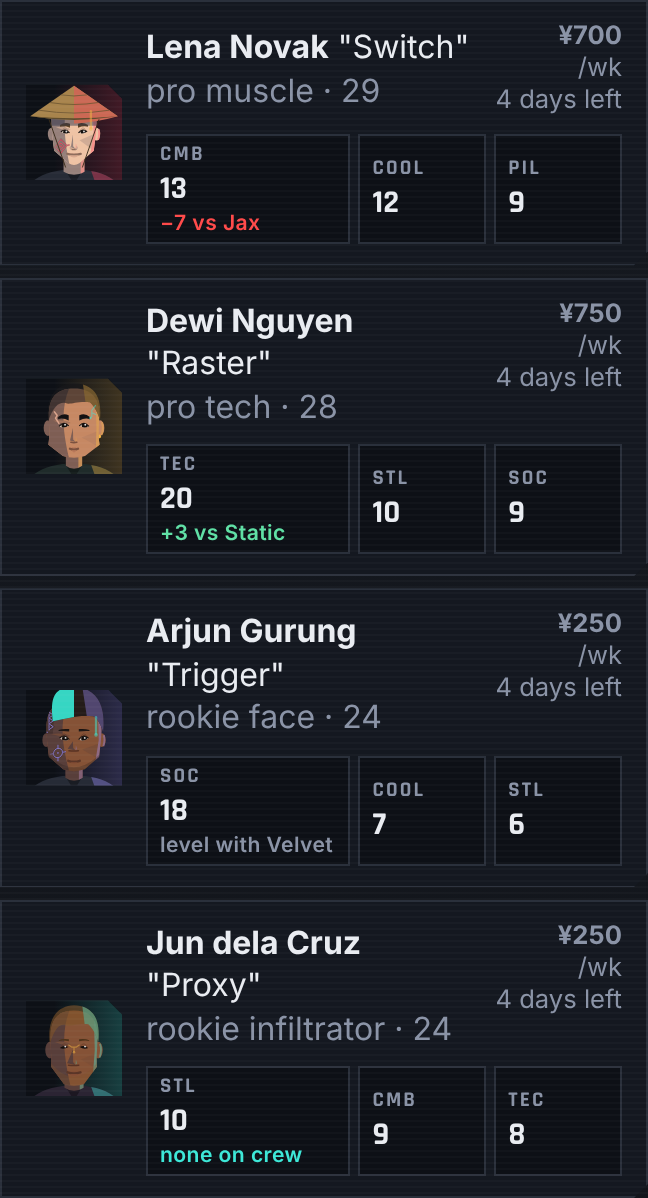
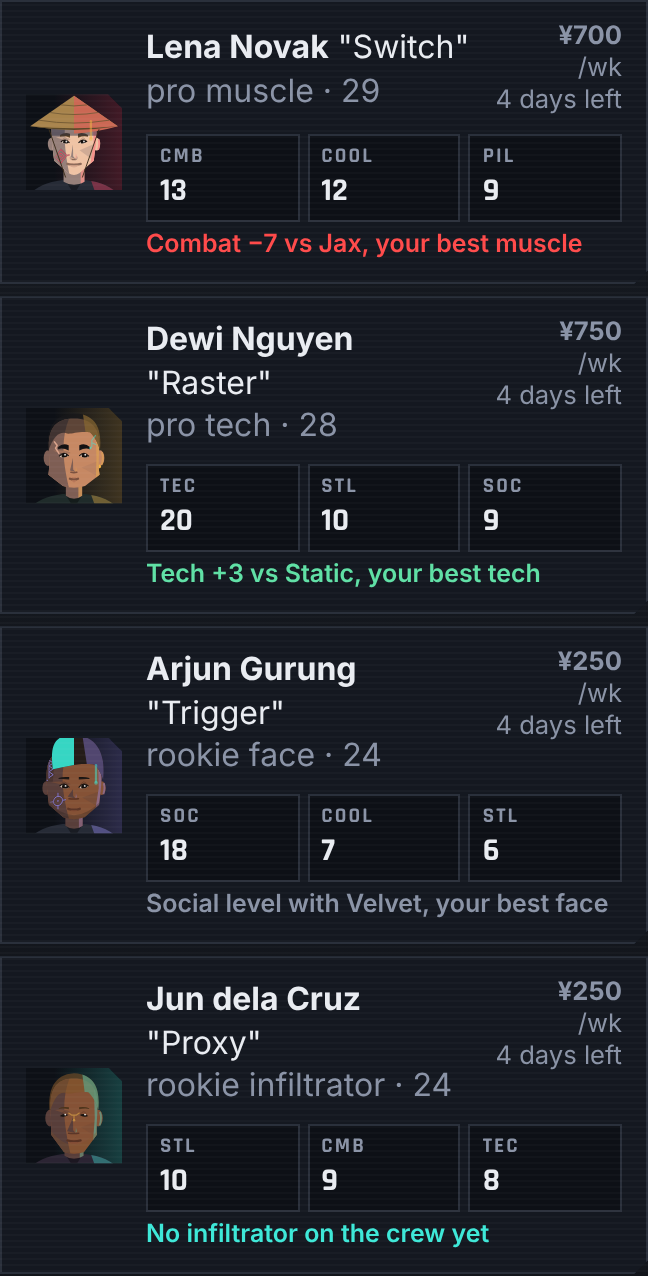
Leads: three equal stat boxes, the comparison on a line under them
The main-stat box was wider to hold the comparison, which made the strip
look uneven. All three boxes are now the same size, and the comparison is a
line under the strip: "Combat -7 vs Jax, your best muscle", "No
infiltrator on the crew yet".

diff --git a/src/ui/crew.js b/src/ui/crew.js
@@ -88,19 +88,20 @@ function statStrip(op) {
 
 /**
  * A lead's stat strip on the Leads tab (2026-11-24, owner): the same three boxes as a crew card (main stat,
- * then the two highest), with no change figures, and the main stat set against our best in that role:
- * "+2 vs Jax", "−7 vs Jax", "level with Jax", or "none on crew" when we have nobody in the role.
- * The boxes are part of the lead's row (it opens their page), not buttons of their own.
+ * then the two highest), with no change figures, all the same size (owner), and a line under them setting
+ * the main stat against our best in that role: "Combat −7 vs Jax, your best muscle", "level with", or
+ * "No infiltrator on the crew yet". The boxes are part of the lead's row (it opens their page), not buttons.
  */
 function leadStrip(r) {
   const main = primaryStat(r);
   const rest = ROLL_STATS.filter((k) => k !== main).sort((a, b) => ratedStat(r, b) - ratedStat(r, a)).slice(0, 2);
   const best = state.crew.filter((o) => o.role === r.role && !o.freelance).sort((a, b) => ratedStat(b, main) - ratedStat(a, main))[0];
   const d = best ? ratedStat(r, main) - ratedStat(best, main) : 0;
-  const vs = !best ? ['none on crew', 'is-new', `no ${r.role} on the crew`]
-    : d === 0 ? [`level with ${best.handle}`, '', `level with ${best.handle}`]
-      : [`${signed(d)} vs ${best.handle}`, d > 0 ? 'is-up' : 'is-down', `${signed(d)} against ${best.handle}`];
-  return `<span class="statstrip">${[main, ...rest].map((k, i) => `<span class="statstrip__cell" role="img" aria-label="${esc(statName(k))} ${ratedStat(r, k)}${i === 0 ? `, ${esc(vs[2])}` : ''}"><span class="statstrip__k">${STAT_SHORT[k]}</span><span class="statstrip__v">${ratedStat(r, k)}</span>${i === 0 ? `<span class="statstrip__vs ${vs[1]}">${esc(vs[0])}</span>` : ''}</span>`).join('')}</span>`;
+  const who = best ? `, your best ${r.role}` : '';
+  const [line, tone] = !best ? [`No ${r.role} on the crew yet`, 'is-new']
+    : d === 0 ? [`${statName(main)} level with ${best.handle}${who}`, '']
+      : [`${statName(main)} ${signed(d)} vs ${best.handle}${who}`, d > 0 ? 'is-up' : 'is-down'];
+  return `<span class="statstrip">${[main, ...rest].map((k) => `<span class="statstrip__cell" role="img" aria-label="${esc(statName(k))} ${ratedStat(r, k)}"><span class="statstrip__k">${STAT_SHORT[k]}</span><span class="statstrip__v">${ratedStat(r, k)}</span></span>`).join('')}</span><span class="statstrip__vs ${tone}">${esc(line)}</span>`;
 }
 
 /** The level-up tab on a crew-list portrait (2026-11-23, owner; replaced the "Level up" pill). The Crew tab's badge counts them in words. */

diff --git a/src/ui/styles.css b/src/ui/styles.css
@@ -613,8 +613,7 @@ button.runner:hover, button.runner:focus-visible { border-color: var(--accent-2)
 .leadrow > .row__meta { grid-area: meta; align-self: start; text-align: right; }
 .leadrow__strip { grid-area: strip; }
 .leadrow .statstrip__cell { cursor: inherit; }
-.leadrow .statstrip { grid-template-columns: minmax(0, 1.6fr) minmax(0, 1fr) minmax(0, 1fr); max-width: 320px; } /* room for the vs line on one line */
-.statstrip__vs { margin-top: 1px; font-size: 0.66rem; font-weight: 600; letter-spacing: 0.02em; line-height: 1.2; color: var(--muted); }
+.statstrip__vs { display: block; margin-top: 4px; font-size: 0.78rem; font-weight: 600; line-height: 1.3; color: var(--muted); }
 .statstrip__vs.is-up { color: #5fe0a5; }
 .statstrip__vs.is-down { color: var(--danger); }
 .statstrip__vs.is-new { color: var(--accent-2); }

diff --git a/docs/UI-SKIN.md b/docs/UI-SKIN.md
@@ -22,7 +22,7 @@ The current look of every screen. Moved word for word from `ART.md` on 2026-11-1
 - **Colour themes** (2026-11-19, Save › Look › Colours): cyan is the standard and everything in this file describes it. **Red channel** (`theme-red` on `<html>`, the last block of `styles.css`) changes colours only: `--bg` `#0d0809`, `--panel` / `--panel-2` `#140c0e` / `#1a1013`, `--line` `#4a1e25`, `--muted` `#7fb3ad`, `--accent-2` `#5ef2e4`; a red radial tint and red 32px grid on the page; headings `#ff5a6e`; section rules, panel tabs, the cut hairline, the line under the top bar and the sub-tabs in `--accent`; idle tabs `#c0606d`; job names `#ff8a98`, pay in cyan. A new screen that hard-codes a cyan or a panel colour should check it under both.
 - **City map** (`src/ui/citymap.js`, fed by `cityMap()` in `src/ui/city.js`, on the Ops tab since 2026-11-06; rebuilt 2026-11-05 as the command centre's neon map, after the owner's mock-up `drafts/prototypes/command-centre.html`; DESIGN.md): Lantern Bay as a compact tactical map, 330×290, that fits the width; it moves only when you pick a district (zoom, 2026-11-07, below). **The frame** (2026-11-07): a 1px `#343b48` hairline (a step lighter than the panel's border), cyan corner brackets (12px, 2px, 70%), a darker ground (`rgba(6,8,11,0.55)`), and the legend inside it at the foot. The island's districts are faceted, straight-edged shapes washed in their gang's light (Brass Anchor sodium `#f2d541`, Red Lantern `#ff3d5f`, Silver Fan violet `#b48cff`, Veridian-Apex cyan `#3de8d8`, Racing Association orange `#ff9a3d`): 9% over `--panel-2`, 15% with a hall of ours, 24% when picked. They meet at 2.5px seams in the page colour, with a faint 9-unit block grid inside; locked districts are hatched in the line colour. The Amber Reach sits in the harbour, the Docks and the Silt on the mainland; HARBOUR in small spaced grey caps. A dashed violet line is the maglev through the Amber Reach; a dotted sodium line is the ferry. No coast outline. **Labels** (HTML over the map since 2026-11-07, so they stay the same size on any screen: 12px names on a phone, 13px from 900px; before, SVG text grew with the map to about 33px on a computer): a dark panel (86% page colour, 1px line border, cyan with a soft glow when picked) with the gang's colour as a 14×2 tab, the name in display caps, and a line under it only for what's there ("⌂ 7 HERE · 2 JOBS · HEAT 4"; heat from 1, amber from 3, red from 6). A district with a hall of ours, and the picked one, carry its **landmark** (`ui/landmarks.js`) as a 24×22 icon. Locked labels are small, one muted line. Each is a 44px+ tap target with its margin. **Zoom** (2026-11-07): picking a district eases the map onto it (0.45s, at once for reduced motion; at least 175 units wide, about 1.9×, never past the city's edge), the others dim to 60% and their labels to 40%, and the district's landmark stands on the map (34 units, fading in). "× Whole city" (a cyan outlined button with a cut corner, in the legend's place), Esc or a tap on the harbour zooms back out. Taps only: no pinch, no drag. **For glancing:** heat is a radial glow round the label (sodium, amber, red; 20 + 3 × heat units); crews out are face tokens (the portraits in a circle, 14 units, a cyan ring with a soft glow; up to three overlapping, then +n) on a dotted cyan route from their hall, just off the label; a call rings them sodium with a ring that breathes outwards; side work is a smaller grey-ringed token; a raid warned is a red ring round the hall's label with a second breathing outwards and a red RAID FRI tag over the label; street talk is a small blinking sodium square beside the label. A legend under the map (Crew · Calling · Raid warned · Hall). Only the call and raid rings move (and the picked district's gentle light); everything is still for reduced motion. New districts are one entry in `DISTRICTS` (shape, label spot and landmark spot). **Beside the map, Tonight** (2026-11-07): one row per district with work or street talk (a dark row with a cut corner, the gang's colour as a tab, its landmark at 26px, the district in muted display caps over what's there, and where the tap goes in cyan: PLAN ›, JOBS ›, TALK ›); a muted line for the rest. **Crew-out mini maps** (`ui/minimap.js`, 2026-11-06): a 120 × 80 still of the job's site in a 1px line frame, labels hidden; the route walked as a 3-unit cyan line, the rest a dashed grey one; the crew as cyan dots (7 units, a dark edge) clustered where they stand; grey rings on the perch and at the van; a waiting call turns the dots sodium with a sodium ring that breathes outwards (still for reduced motion).
 - **District pictures** (`src/ui/districtArt.js`; on Lore › Districts since 2026-11-06, each district's card led by its picture): a street scene per district, 720×300, drawn like the portraits (flat planes, hard light, the gang's light from the right, no outlines). One per open district, each with one of your crew in it (hood up, rifle across the back) and its landmarks: the **Docks** (Red Lantern red: cranes with cyan and violet neon, container AHX 409, red lanterns, a flying car, Hong Kong neon across the harbour); **Old Town** (Brass Anchor sodium: tenements with caged balconies, laundry and air-con boxes, Auntie Fung's tea shop 芬記涼茶 with a cup of bitter tea on the step, the shrine of To Dei Gung 土地, the mahjong parlour, Block 9's rusted stairwell, joss paper burning in a bin); the **Night Market** (Silver Fan violet: holo-ads, signs crowding the lane, the Neon Dragon dai pai dong's wok fire, Madam Rao's saris on a rail, the third-floor mahjong parlour, stalls under string lights, a crowd under lit umbrellas); **Glass Heights** (Veridian-Apex cyan: glass towers in a fine grid, the Central Tower's crown and logo, the Glass-Bridge Promenade, air vents, planters, security drones scanning the plaza, sky traffic); the **Basin** (Racing Association orange: race night under floodlight towers, horses on the turn in silks, the Old Stand of 1891, the odds board in neon under 燈籠馬場 in pink, camera drones pacing the horses with a red recording light, paper slips in the air). Mahjong parlours share one window drawing. Chinese lettering uses the system's CJK font, as the city's name does.
-- **Icons** (`src/ui/icons.js`): line icons drawn like Joss's face, a 24-unit grid with 1.8 strokes, round caps and joins, no fills, in the text's colour (`currentColor`). One idea each: combat a blade, stealth an eye struck through, tech a chip, social a speech bubble, driving a steering wheel, medical a cross, cool a steady pulse, a person as head and shoulders (crew sizes on side-work cards show one figure and the number, "[figure] 4"). **Gear** (2026-10-28) has one icon per item type, the same way: a rifle with its scope, a handgun, a plated vest, a quadcopter drone, a deck, a bag with a cross, a key for lockpicks, a head with a chip for implants; always beside the item's name. They sit beside their word (rule 1) wherever a stat is a label you scan (dossiers, the picker, the profile's stats), not inside sentences. **The crew list's stat strip** (2026-11-23) is the other exception: three boxes with short capital labels (MED, COOL, SOC) and no icon, so all three fit one row at phone width; each box carries the full name for screen readers. Each box is a button (2026-11-24): a tap outlines it in cyan and opens a line under the strip (a cyan left rule on the dark inset) with the stat in full and this season's change; the card itself opens from a button over its name and role rows, and from a hit layer behind the rest. In a season's first week, before a runner changes, the strip shows last season's changes in grey with a small capital "Last season" note. Leads (2026-11-24) show the same strip with a wider first box: under the main stat, a small line against our best in the role, green ahead, red behind, grey level, cyan "none on crew". A waiting level-up there is a small green chevron tab on the portrait's corner (the "ready" green, cut corner). Fame (Renowned) is not on the card (2026-11-24): it is on the runner's page, and the SHOW menu can list them. On wide screens the status chip sits above the fatigue bars, right of the strip. **One exception, the job board's cards** (2026-10-28): the key stats show as icons alone, because the same words are one tap away on the planning screen; each icon still carries its name for screen readers and as a hover title on desktop, and the reputation (i) above the board holds the key.
+- **Icons** (`src/ui/icons.js`): line icons drawn like Joss's face, a 24-unit grid with 1.8 strokes, round caps and joins, no fills, in the text's colour (`currentColor`). One idea each: combat a blade, stealth an eye struck through, tech a chip, social a speech bubble, driving a steering wheel, medical a cross, cool a steady pulse, a person as head and shoulders (crew sizes on side-work cards show one figure and the number, "[figure] 4"). **Gear** (2026-10-28) has one icon per item type, the same way: a rifle with its scope, a handgun, a plated vest, a quadcopter drone, a deck, a bag with a cross, a key for lockpicks, a head with a chip for implants; always beside the item's name. They sit beside their word (rule 1) wherever a stat is a label you scan (dossiers, the picker, the profile's stats), not inside sentences. **The crew list's stat strip** (2026-11-23) is the other exception: three boxes with short capital labels (MED, COOL, SOC) and no icon, so all three fit one row at phone width; each box carries the full name for screen readers. Each box is a button (2026-11-24): a tap outlines it in cyan and opens a line under the strip (a cyan left rule on the dark inset) with the stat in full and this season's change; the card itself opens from a button over its name and role rows, and from a hit layer behind the rest. In a season's first week, before a runner changes, the strip shows last season's changes in grey with a small capital "Last season" note. Leads (2026-11-24) show the same strip, three equal boxes, with a line under it setting the main stat against our best in the role: green ahead, red behind, grey level, cyan when nobody on the crew has the role. A waiting level-up there is a small green chevron tab on the portrait's corner (the "ready" green, cut corner). Fame (Renowned) is not on the card (2026-11-24): it is on the runner's page, and the SHOW menu can list them. On wide screens the status chip sits above the fatigue bars, right of the strip. **One exception, the job board's cards** (2026-10-28): the key stats show as icons alone, because the same words are one tap away on the planning screen; each icon still carries its name for screen readers and as a hover title on desktop, and the reputation (i) above the board holds the key.
 - **Risk corner** (job board cards, 2026-10-28, owner's call after Cyberpunk 2077's inventory slots): a thin bracket inside the card's top-right corner, 4px in, 14px each way, 1.5px lines at 70% opacity, coloured by Joss's read: low `#5fe0a5`, mid `--warn`, high `#ff9a5a`, extreme `--danger`. All the same size: the colour alone tells the levels apart on the card (the owner's call); the word is on the planning screen, for screen readers and as a hover title. While Joss's read is still on its way (2026-11-14, the board reads in a worker) the corner is the same bracket in `--muted` at 35%, breathing to 12% (no animation with reduced motion), and the runner count is a dash in its own place, so the card never changes size when the read lands. Flags on a card are outlined boxes in display caps, only when something is unusual.
 - **Site plans** (`src/data/sites.js`, drawn by `src/ui/siteplan.js` with `src/ui/siteart.js`): the watch screen's map of a job, one per district, from above at night on the same dark ground as the city map. **Since 2026-11-12 drawn like the portraits (direction B):** one city light from the right (`site.light`, sodium by default); everything that stands up casts a hard navy `#1b2340` shadow to the left and a little down, longer the taller it is, and catches the light on its right side; no blur, no outlines. Stalls are awnings (shadowed left, lit right, a lamp under each), the crowd are people from above, the footbridge has rails and lamps; a site may add paving slabs and hard-edged planes of neon across its ground (`paving`, `glow`; the Night Market has both). Each district has its own drawings and ground (`look`, `texture`, `light`): Docks containers with ribs and lit doors on concrete, the harbour's swell, a planked jetty, red light off the water; Old Town roofs with air-con units, a drum water tank, washing on the lines, a cobbled courtyard in sodium light; Glass Heights shrubs in planters on a tiled plaza in the tower's cyan, a helipad roof; Basin pitched stable roofs, Lantern Course at its real size (only the near bend of the oval, off the top-left edges: dirt between two white rails, the infield mown in bands), gravel yards, and the Old Stand's roof (overwatch: concrete ribs running back from the lip, plant on top). **Props** (`src/ui/siteprops.js`, placed by hand in each site's `props`): the city's tech as scenery, never cover and never on the route: auto-taxis with a roof light bar and headlight beams, AR adverts (a see-through panel with scan lines and glyph bars over a small emitter; no words), rooftop neon signs with a hard halo, satellite dishes, vending machines throwing their colour on the ground, hovering drones (a sphere: dark side, lit crescent, a glowing ring round its middle, one sensor eye, its shadow apart from it), junction boxes with three status lights, steam vents with a flat pale plume, and cables strung overhead between buildings. The route is solid cyan with a dark edge; labels are display caps with a dark halo. Flat shapes, no outlines on cover; buildings `#171b24` with a grey edge; the target room a dashed signal-red outline; the crew's route a cyan line with ring nodes; overwatch a sodium perch; the rifle's sight a faint sodium wedge, the drone's cyan. Each district reads at a glance: rust and teal containers and the harbour (Docks), lit windows, laundry lines and an alley of steps (Old Town), neon stalls and a grey crowd (Night Market), a cyan-edged glass tower over a planted plaza (Glass Heights), the cream racecourse oval and timber stables (Basin). Labels are small grey caps; the target's is white. Cover for fights is drawn like the containers, flat blocks in the district's muted tones with no outline (bins, carts, crates, a horse trailer, hay), and furniture inside a target like the desks. **In a fight** (command fights, 2026-10-30): the camera frames the fight; tokens grow a little and show the runner's face in a circle; everyone has a small shield for their cover (cyan for the crew, pink for the guards; filled for full, half-filled for half) or a sodium OPEN tag; each guard's aim is a dashed signal-red line with its chance in a dark red tag; orders given are cyan lines (dotted for a flank, dashed for a move, green for a patch), a hunker is a dashed cyan ring, the picked runner a solid cyan ring, the target guard a dashed sodium ring, free spots dotted circles.
 - **Raids** (2026-11-05): a raid warned on one of our halls is a red ring round its label on the Ops map, a second ring breathing outwards (still for reduced motion), and a red RAID tag (`RAID THU`, or `RAID NOW` on the day) over the label; its item in Out now has a red edge and a pulsing light. **Forecourt** (2026-11-12): every hall compound is 360 × 330, not 360 × 240: three rows of squares (y 210-300) between the buildings and the street are the forecourt, `sp-yard` ground inside `sp-wall` walls on both sides and a front wall with a gate (`sp-gate`) onto the street strip, which is the last 30 units. The two crates in it are the hall's own cover. **Posts** (2026-11-12, `sp-post`): a small dark block with a cyan edge, drawn at its slot on a window, a roof or beside the gate (18 × 8, 16 × 16, 10 × 14); not cover on the map. On the build screen's Posts tab each place is a dashed cyan square with a `+`, a built one an outlined block; the hall page lists them with the runner standing on each (`.postrow`, sodium edge when empty). Each district's hall is its own site plan (`data/sites.js` HALLS, 2026-11-05), the building from above on the usual dark ground: the way in and the way out as steps or a ladder, doors in signal red, the place's own things as fight cover. Every hall (a compound since 2026-11-07, one layout per `compound()` in `data/sites.js`, the Docks and the Basin mirrored; each dressed in its own ground, colours and outside things: the Night Market's silks and violet gate, the Docks' walkway, container yard and red gate, the Basin's hay and saddle brown with an orange gate, Glass Heights' racks and air handlers with a cyan gate). Old Town: separate buildings (`sp-house`, drawn like `sp-building`) with the lane, the yard and a passage between them, the back alley across the top and the street along the bottom; the yard's wall and its gate (a sodium bar) appear once the yard is held; bins, pallets, a water tank, crates and a hawker's cart outside as cover. On the build screen and the hall's page, each part's name in small display caps over its top edge; a part not held is a faint outline (`#232a35`, no hatching, no words; since 2026-11-12), the next one outlined in dashed cyan with its name, EXPAND › and its price in sodium; squares kept clear for a way in (building only) carry a faint dashed grey square. Doors on the hall plans are cyan (`.bplan .sp-door`), so red stays for actions and raids. Beds (all halls, 2026-11-07) are blocks on the floor, one a square: a `#3a4352` cot with a grey pillow and a slate blanket, a thin cyan outline when someone sleeps in it. The Night Market: silk racks in the gang's violet, pink, sodium and cyan. The Docks: a pier deck (`sp-pier`) over dark water, with containers in their tones. The Basin: saddle brown and hay, and the Old Stand's lit windows across the top. Glass Heights: server racks in rows between cable runs. One label each is lit (OUR HALL, OUR ROOMS, OUR OFFICE, OUR FLAT, OUR FLOOR). The shared HALL plan stays as the fallback. **Building up a hall** (`ui/hallbuild.js`, 2026-11-06): the hall's plan with a grid of 30-unit squares over its floor. Free squares are dashed cyan lines on a 5% cyan fill; the picked square or piece has a 2.4-unit cyan outline; the piece to place is a 55% cyan ghost. Built pieces are drawn as the hall's own things are: a barricade as crates in hay brown, a steel plate as a 26 × 6 bar in `#5d6b7a`, an inner wall as a 30 × 4 block. The palette's tiles are sharp panels with a cut corner, each with a small drawing on a dark square, the name in display caps, the price in sodium. A room is its own walls (`sp-hallroom`, `#1b2130` with a `#5a6474` line) with a door in signal red on its left wall, and its fittings flat, without outlines: the clinic's two beds, white cabinet and cyan cross; the bunk room's three bunks; the canteen's long brown table and sodium rice cooker; the stash's grey safe with a sodium dial; the lookout's cyan window and a stool; the den's green mahjong table and pink karaoke screen; the cyber doc's grey chair under a violet lamp. The work board is a brown cork board with paper notes pinned on it and a grey bench by the door. The auto turret is a small grey post with a signal-red barrel; in a fight its shot is the usual line from where it stands. A room to be placed shows as its squares in 30% cyan. **The hall's landmark** (`ui/landmarks.js`, 56px, `raidcards.js hallMark`) stands beside each hall on Crew › Halls in its gang's light (dimmed, grey, for a hall not yet opened), and beside a raid in Out now, the warning and the call, with a still red glow behind it until the raid is over or paid off.

diff --git a/docs/design/2026-11.md b/docs/design/2026-11.md
@@ -4,7 +4,7 @@ Part of the decision log kept in `DESIGN.md`. Supersede with a new row at the to
 
 | Date | Decision | Why | Rejected alternatives |
 | --- | --- | --- | --- |
-| 2026-11-24 | **Leads show the crew card's stat strip (`leadStrip`): main stat, then the two highest, no change figures; the main stat compared with our best runner in that role by rated value ("+3 vs Static", "−7 vs Jax", "level with Velvet", "none on crew"; freelancers don't count) (owner: "now do the stat strip on the leads tab", from the 2026-11-23 mockups).** The boxes are part of the lead's row, which opens their page; not tap-to-explain like the crew card's, since the comparison says what the main stat means. The main box is wider so the comparison fits on one line. | Comparing a lead with the crew took opening their page and remembering numbers; the strip makes it a glance, in the same shape as the roster. | Comparing every box (three lines of red or green); comparing with the crew's average in the role (no name to picture); tap-to-explain boxes as on the crew card (the lead's row would need the same overlay rework for little gain). |
+| 2026-11-24 | **Leads show the crew card's stat strip (`leadStrip`): main stat, then the two highest, no change figures; the main stat compared with our best runner in that role by rated value as a line under the strip ("Combat −7 vs Jax, your best muscle", "No infiltrator on the crew yet"; freelancers don't count) (owner: "now do the stat strip on the leads tab", from the 2026-11-23 mockups; then "it should be the same size for all stats": the comparison first sat inside a wider main box).** The boxes are part of the lead's row, which opens their page; not tap-to-explain like the crew card's, since the comparison line says what the main stat means. | Comparing a lead with the crew took opening their page and remembering numbers; the strip makes it a glance, in the same shape as the roster. | The comparison inside a wider main box (uneven boxes, owner); comparing every box (three lines of red or green); comparing with the crew's average in the role (no name to picture); tap-to-explain boxes as on the crew card (the lead's row would need the same overlay rework for little gain). |
 | 2026-11-24 | **In a season's first 7 days, a runner with no change yet this season shows last season's changes on the stat strip, in grey with a "Last season" note (`stripChanges`, `FRESH_SEASON_DAYS`); the crew card's open button covers the name and role rows, with a `crewrow__hit` layer behind the whole card (owner: "yes do those").** | Gains count per season, so the whole list went plain the day a season turned. The open button had covered the whole card, so its middle could be a stat box: `scripts/audit-landscape.mjs` (and a dozen capture scripts) click the middle and stalled at 932x430. | Showing the change since they joined (a different number from the rest of the year); fixing each capture script's click instead (players would still meet the same thing). |
 | 2026-11-24 | **The fame tier `elite` is shown as Renowned (`FAME_NAMES`, the messages, history, path meter and pay ask); the id stays `elite`, so no save change (owner: "Go with Renowned").** Rules and timing unchanged; the fame tests now look for the new words. | "ELITE · rookie medic" read as a contradiction: skill (rookie/pro/veteran) and fame are separate ladders, and "elite" is an everyday word for skill. Renowned is about reputation and reads naturally after Respected. | Notorious (more crime flavour; the owner's second option); Famous (flat); Big Name (needs "a" in every message); keeping Elite and requiring pro tier for it, as Legend needs veteran (changes when the first one arrives, tuned to weeks 20-30). |
 | 2026-11-24 | **Fame is off the crew card: it shows on the runner's page, and the roster's SHOW menu gains Renowned and Level up waiting; level-ups sort first in every view; the status chip sits above the fatigue bars on wide screens; a serious or critical wound reads "injured · 5d" on the list (`statusChip(a, { short })`) (owner, after mockups of eight tag positions and four words; "in Football Manager this isn't on their main profile but is available within their extended screen").** | Football Manager keeps reputation off the squad list. A tag on the card wrapped the role line and sat just off the status chip, and it put rookie and Renowned side by side. The filter still finds them in one tap. | A tag after the name, solid or outlined; a kicker above the name; a band on the portrait; a gold card edge; a corner ribbon (sat on the status); a gold name (wrapped the role line); a tag by the status; a gold portrait frame (needs a key to read); the status in the name row (long names wrapped). |

diff --git a/docs/screenshots/README.md b/docs/screenshots/README.md
@@ -22,7 +22,7 @@ Then add a row to the top of the table below and commit the folder with the chan
 
 | Date | Version | Commit | What's new on screen | Folder |
 | --- | --- | --- | --- | --- |
-| 2026-11-24 | Leads show the stat strip | (this change) | Each lead on Crew › Leads has the crew card's three stat boxes, the main stat against our best in the role. The standard set's Leads tab is empty (`32`). `49` to `51` are a staged session capture (2x) of four leads, one behind ("−7 vs Jax"), one ahead ("+3 vs Static"), one level, one with nobody in the role: at 390 wide (`49`), 1280 wide (`50`) and 844x390 (`51`). | [2026-11-24-leads-stat-strip](2026-11-24-leads-stat-strip/) |
+| 2026-11-24 | Leads show the stat strip | (this change) | Each lead on Crew › Leads has the crew card's three stat boxes, three equal boxes and a line under them setting the main stat against our best in the role. The standard set's Leads tab is empty (`32`). `49` to `51` are a staged session capture (2x) of four leads, one behind ("Combat −7 vs Jax"), one ahead ("Tech +3 vs Static"), one level, one with nobody in the role: at 390 wide (`49`), 1280 wide (`50`) and 844x390 (`51`). | [2026-11-24-leads-stat-strip](2026-11-24-leads-stat-strip/) |
 | 2026-11-24 | The crew list in a new season's first week (session capture) | (this change) | Staged at 390 wide, 2x: day 2 of season 2, Stitch's strip in grey with "Last season" and the Medical box tapped, beside Static, who has already grown this season (`01`); a Renowned runner's page header, "RENOWNED · PRO · STEADY" (`02`). From `scripts/audit-landscape.mjs` at 1x: the crew list at 844x390 and 932x430 (`03`, `04`). The standard set is unchanged from 2026-11-24-renowned-crew-list. | [2026-11-24-new-season-strip](2026-11-24-new-season-strip/) |
 | 2026-11-24 | Elite is Renowned; tidier crew list | (this change) | No fame tag on crew cards; the status chip sits above the fatigue bars on wide screens; level-ups first; "injured · 5d" (`18`, `47`). `49` to `51` are a staged session capture (2x) of a 13-runner roster with three Renowned, four level-ups and two wounds: the roster at 1500 wide (`49`), the SHOW menu with Level up waiting and Renowned at 390 (`50`), and the Renowned filter (`51`). | [2026-11-24-renowned-crew-list](2026-11-24-renowned-crew-list/) |
 | 2026-11-24 | Tap a crew card's stat | (this change) | A crew card's stat boxes are buttons: a tap outlines the box in cyan and opens a line under the strip with the stat in full and this season's change. The standard set (`18`) looks as before. `49` and `50` are a staged session capture (390 wide and 1280 wide, 2x) of Stitch's Medical box tapped, beside a card with nothing open; in `50` that card stretched to match, fixed in `51`. | [2026-11-24-crew-stat-tap](2026-11-24-crew-stat-tap/) |

diff --git a/docs/changelog/2026-11.md b/docs/changelog/2026-11.md
@@ -3,7 +3,7 @@
 Part of the changelog indexed in `CHANGELOG.md`. Newest first; add new entries at the top of the newest file. For *why* a decision was made, see the decision log in `DESIGN.md`.
 
 ## 2026-11-24 · Leads show the stat strip
-- **Each lead on Crew › Leads shows the same three stat boxes as a crew card**: their main stat first, then their two best. The main stat says how they compare with your best runner in that role: "+3 vs Static" in green, "−7 vs Jax" in red, "level with Velvet", or "none on crew" when you have nobody in that role. Tapping the lead still opens their page.
+- **Each lead on Crew › Leads shows the same three stat boxes as a crew card**, all the same size: their main stat first, then their two best. A line under the boxes says how their main stat compares with your best runner in that role: "Tech +3 vs Static, your best tech" in green, "Combat −7 vs Jax, your best muscle" in red, "Social level with Velvet" in grey, or "No infiltrator on the crew yet". Tapping the lead still opens their page.
 
 ## 2026-11-24 · The crew list in a new season's first week
 - **For the first week of a season, the stat strip shows last season's changes in grey** with a small "Last season" note, until the runner changes this season. Before, every card went plain the day a season turned. Tapping a box says "up 5 last season (was 15)". From day 8, or as soon as they change this season, it shows this season's as usual.
